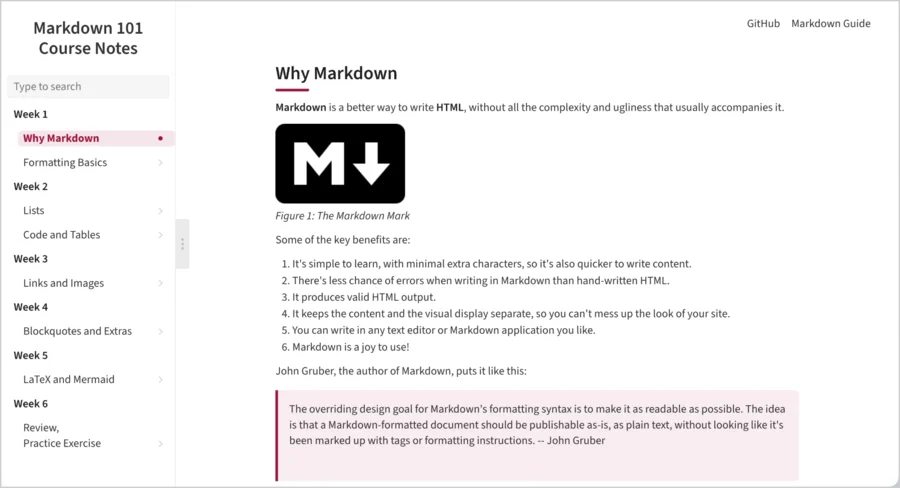
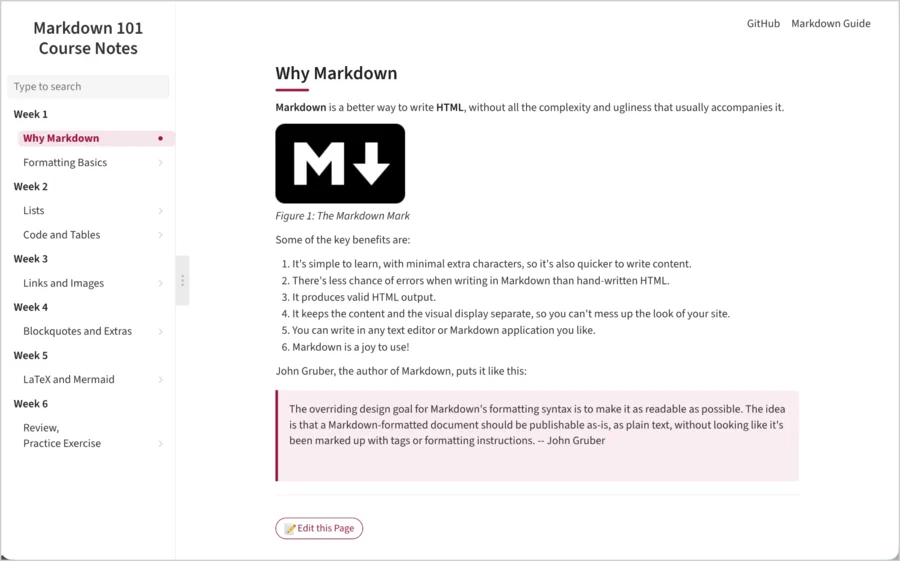
Update screenshots.

diff --git a/creating-github-course-notes.html b/creating-github-course-notes.html
@@ -142,11 +142,11 @@
 
     <div class="shot-pair">
       <figure>
-        <a href="https://docsify-this.net/?basePath=https://raw.githubusercontent.com/hibbitts-design/demo-docsify-markdown-101-course-notes/main/docs&amp;homepage=README.md&amp;sidebar=true&amp;maxLevel=3&amp;loadSidebar=_sidebar.md&amp;loadNavbar=_navbar.md&amp;name=Markdown%20101%20Course%20Notes&amp;searchbox=true#/01-why-markdown" target="_blank" rel="noopener"><img src="assets/screenshots/markdown101-docsify-this-sidebar.webp" width="900" height="488" alt="The Markdown 101 course notes displayed with Docsify-This, showing a full site-wide sidebar and search box, using default styling"></a>
+        <a href="https://docsify-this.net/?basePath=https://raw.githubusercontent.com/hibbitts-design/demo-docsify-markdown-101-course-notes/main/docs&amp;homepage=README.md&amp;sidebar=true&amp;maxLevel=3&amp;loadSidebar=_sidebar.md&amp;loadNavbar=_navbar.md&amp;name=Markdown%20101%20Course%20Notes&amp;searchbox=true#/01-why-markdown" target="_blank" rel="noopener"><img src="assets/screenshots/markdown101-docsify-this-sidebar.webp" width="900" height="561" alt="The Markdown 101 course notes displayed with Docsify-This, showing a full site-wide sidebar and search box, using default styling"></a>
         <figcaption>The full course, displayed with Docsify-This.</figcaption>
       </figure>
       <figure>
-        <a href="https://hibbitts-design.github.io/demo-docsify-markdown-101-course-notes/#/01-why-markdown" target="_blank" rel="noopener"><img src="assets/screenshots/markdown101-starter-kit-custom.webp" width="900" height="488" alt="The same course notes deployed as a Docsify Open Course Starter Kit site, with custom CSS styling and an Edit this Page link"></a>
+        <a href="https://hibbitts-design.github.io/demo-docsify-markdown-101-course-notes/#/01-why-markdown" target="_blank" rel="noopener"><img src="assets/screenshots/markdown101-starter-kit-custom.webp" width="900" height="561" alt="The same course notes deployed as a Docsify Open Course Starter Kit site, with custom CSS styling and an Edit this Page link"></a>
         <figcaption>The same course, deployed as a Docsify Open Course Starter Kit site with custom CSS and its own&nbsp;URL.</figcaption>
       </figure>
     </div>

diff --git a/viewing-github-course-notes.html b/viewing-github-course-notes.html
@@ -130,11 +130,11 @@
 
     <div class="shot-pair">
       <figure>
-        <a href="https://github.com/paulhibbitts/markdown-101-course-notes/blob/main/05-links-and-images.md" target="_blank" rel="noopener"><img src="assets/screenshots/markdown101-github.webp" width="900" height="488" alt="A course page viewed on GitHub, with no sidebar or search"></a>
+        <a href="https://github.com/paulhibbitts/markdown-101-course-notes/blob/main/05-links-and-images.md" target="_blank" rel="noopener"><img src="assets/screenshots/markdown101-github.webp" width="900" height="560" alt="A course page viewed on GitHub, with no sidebar or search"></a>
         <figcaption>An example page, from a course repo built for this guide.</figcaption>
       </figure>
       <figure>
-        <a href="https://docsify-this.net/?basePath=https://raw.githubusercontent.com/paulhibbitts/markdown-101-course-notes/main&amp;homepage=README.md&amp;sidebar=true&amp;hide-credits=true&amp;maxLevel=3&amp;name=Markdown%20101&amp;searchbox=true&amp;zoom-images=true&amp;dark-mode=auto#/05-links-and-images" target="_blank" rel="noopener"><img src="assets/screenshots/markdown101-docsify.webp" width="900" height="488" alt="The same page displayed with Docsify-This, showing a sidebar outline generated from its headings and a search box"></a>
+        <a href="https://docsify-this.net/?basePath=https://raw.githubusercontent.com/paulhibbitts/markdown-101-course-notes/main&amp;homepage=README.md&amp;sidebar=true&amp;hide-credits=true&amp;maxLevel=3&amp;name=Markdown%20101&amp;searchbox=true&amp;zoom-images=true&amp;dark-mode=auto#/05-links-and-images" target="_blank" rel="noopener"><img src="assets/screenshots/markdown101-docsify.webp" width="900" height="560" alt="The same page displayed with Docsify-This, showing a sidebar outline generated from its headings and a search box"></a>
         <figcaption>The exact same file, displayed with Docsify-This.</figcaption>
       </figure>
     </div>
